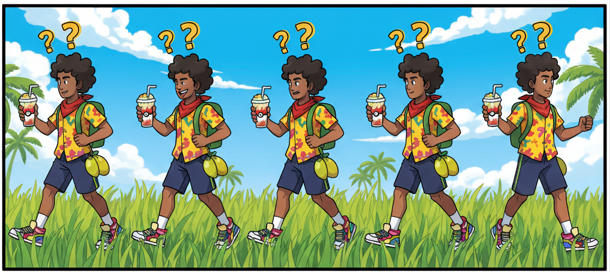
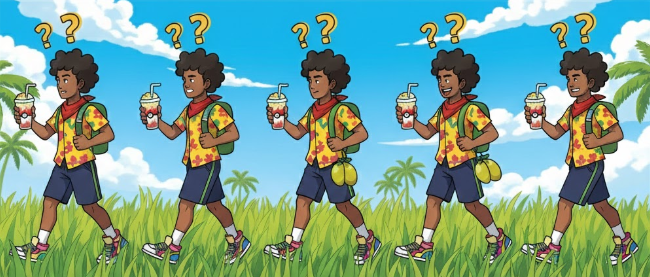
Refactor Buscar component layout and enhance sprite animation size

diff --git a/src/components/Buscar.vue b/src/components/Buscar.vue
@@ -1,33 +1,28 @@
-}<template>
+<template>
   <div class="fixed inset-0 bg-black bg-opacity-50 flex items-center justify-center z-50">
     <div class="bg-white rounded-lg p-6 w-full max-w-md mx-4">
-      <h2 class="text-2xl font-bold mb-2">Buscar Pokémon</h2> <!-- Reducido mb-4 a mb-2 -->
+      <h2 class="text-2xl font-bold mb-1">Buscar Pokémon</h2>
       
-      <!-- Loading State -->
       <div v-if="buscando" class="text-center">
-        <!-- Contenedor de animación - mucho más grande -->
-        <div class="relative h-48 mb-2 flex items-center justify-center"> <!-- Aumentado h-32 a h-48 y mb-4 a mb-2 -->
-          <!-- Personaje caminando en el mismo lugar - más grande -->
+        <div class="relative h-56 flex items-center justify-center">
           <div 
-            class="w-24 h-24" 
+            class="w-32 h-32"
             :style="spriteStyle"
           ></div>
         </div>
         
-        <p class="text-lg mb-1">Buscando Pokémon...</p> <!-- Añadido mb-1 -->
-        <p class="text-sm text-gray-500">Explorando la selva</p> <!-- Eliminado mt-2 -->
+        <p class="text-lg mt-2">Buscando Pokémon...</p>
+        <p class="text-sm text-gray-500 mt-1">Explorando la selva</p>
       </div>
       
-      <!-- Estado completado -->
       <div v-else class="text-center">
-        <div class="bg-blue-100 border border-blue-400 text-blue-700 px-4 py-3 rounded mb-2"> <!-- Reducido mb-4 a mb-2 -->
+        <div class="bg-blue-100 border border-blue-400 text-blue-700 px-4 py-3 rounded mb-2">
           <h3 class="font-bold text-lg">Búsqueda completada</h3>
-          <p class="mt-1">Revisa la consola para ver el resultado</p> <!-- Reducido mt-2 a mt-1 -->
+          <p class="mt-1">Revisa la consola para ver el resultado</p>
         </div>
       </div>
       
-      <!-- Botones -->
-      <div class="flex gap-2 mt-4"> <!-- Reducido mt-6 a mt-4 -->
+      <div class="flex gap-2 mt-4">
         <button
           v-if="!buscando"
           @click="reiniciarBusqueda"
@@ -50,7 +45,6 @@
 <script setup lang="ts">
 import { ref, onMounted, onUnmounted, computed } from 'vue'
 
-// Interfaces TypeScript
 interface PokemonData {
   nombre: string;
   tipo: string;
@@ -70,76 +64,62 @@ const emit = defineEmits<{
   'cerrar': [];
 }>()
 
-// Estados reactivos
 const buscando = ref<boolean>(true);
 const frameActual = ref<number>(0);
 const animacionId = ref<number | null>(null);
 
-// Configuración del sprite sheet - AJUSTA ESTOS VALORES SEGÚN TU IMAGEN
 const spriteConfig: SpriteConfig = {
-  totalFrames: 4,     // ¿Cuántos frames tiene tu sprite sheet?
-  frameWidth: 96,     // Aumentado de 64 a 96 píxeles
-  frameHeight: 96,    // Aumentado de 64 a 96 píxeles
-  velocidadAnimacion: 200, // ms entre frames
+  totalFrames: 4,
+  frameWidth: 128,
+  frameHeight: 128,
+  velocidadAnimacion: 200,
 };
 
-// OPCIÓN 2: Imagen en src/assets/images/
 import spriteSheet from '@/assets/images/personaje-selva.png';
 const spriteSheetUrl = ref<string>(spriteSheet);
 
-// Computed para el estilo del sprite
 const spriteStyle = computed((): { [key: string]: string } => ({
   backgroundImage: `url('${spriteSheetUrl.value}')`,
   backgroundPosition: `-${frameActual.value * spriteConfig.frameWidth}px 0px`,
   backgroundSize: `${spriteConfig.totalFrames * spriteConfig.frameWidth}px ${spriteConfig.frameHeight}px`,
-  imageRendering: 'pixelated' // Para que se vea bien con sprites pixel art
+  imageRendering: 'pixelated'
 }));
 
-// Iniciar búsqueda automáticamente cuando el componente se monta
 onMounted((): void => {
   iniciarBusqueda();
 });
 
-// Limpiar animación al desmontar el componente
 onUnmounted((): void => {
   if (animacionId.value !== null) {
     cancelAnimationFrame(animacionId.value);
   }
 });
 
-// Función para iniciar la búsqueda
 const iniciarBusqueda = async (): Promise<void> => {
   buscando.value = true;
   frameActual.value = 0;
   
-  // Iniciar animación
   iniciarAnimacion();
   
-  // Temporizador de 2-3 segundos
   await new Promise<void>(resolve => setTimeout(resolve, Math.random() * 1000 + 2000));
   
-  // Detener animación
   if (animacionId.value !== null) {
     cancelAnimationFrame(animacionId.value);
     animacionId.value = null;
   }
   
-  // Ejecutar la lógica de decisión
   decidirResultadoDeBusqueda();
   
   buscando.value = false;
 };
 
-// Función para animar el personaje (solo cambio de frames)
 const iniciarAnimacion = (): void => {
   let ultimoTiempo: number = 0;
   
   const animar = (tiempo: number): void => {
     if (!ultimoTiempo) ultimoTiempo = tiempo;
     
-    // Controlar velocidad de animación
     if (tiempo - ultimoTiempo > spriteConfig.velocidadAnimacion) {
-      // Solo avanzar frame (sin mover posición)
       frameActual.value = (frameActual.value + 1) % spriteConfig.totalFrames;
       ultimoTiempo = tiempo;
     }
@@ -150,7 +130,6 @@ const iniciarAnimacion = (): void => {
   animacionId.value = requestAnimationFrame(animar);
 };
 
-// Función que decide el resultado de la búsqueda
 const decidirResultadoDeBusqueda = (): void => {
   const encontrado: boolean = Math.random() > 0.4;
   
@@ -172,13 +151,11 @@ const decidirResultadoDeBusqueda = (): void => {
   }
 };
 
-// Función para reiniciar la búsqueda
 const reiniciarBusqueda = (): void => {
   buscando.value = true;
   iniciarBusqueda();
 };
 
-// Función para cerrar el modal
 const cerrarModal = (): void => {
   emit('cerrar');
 };
